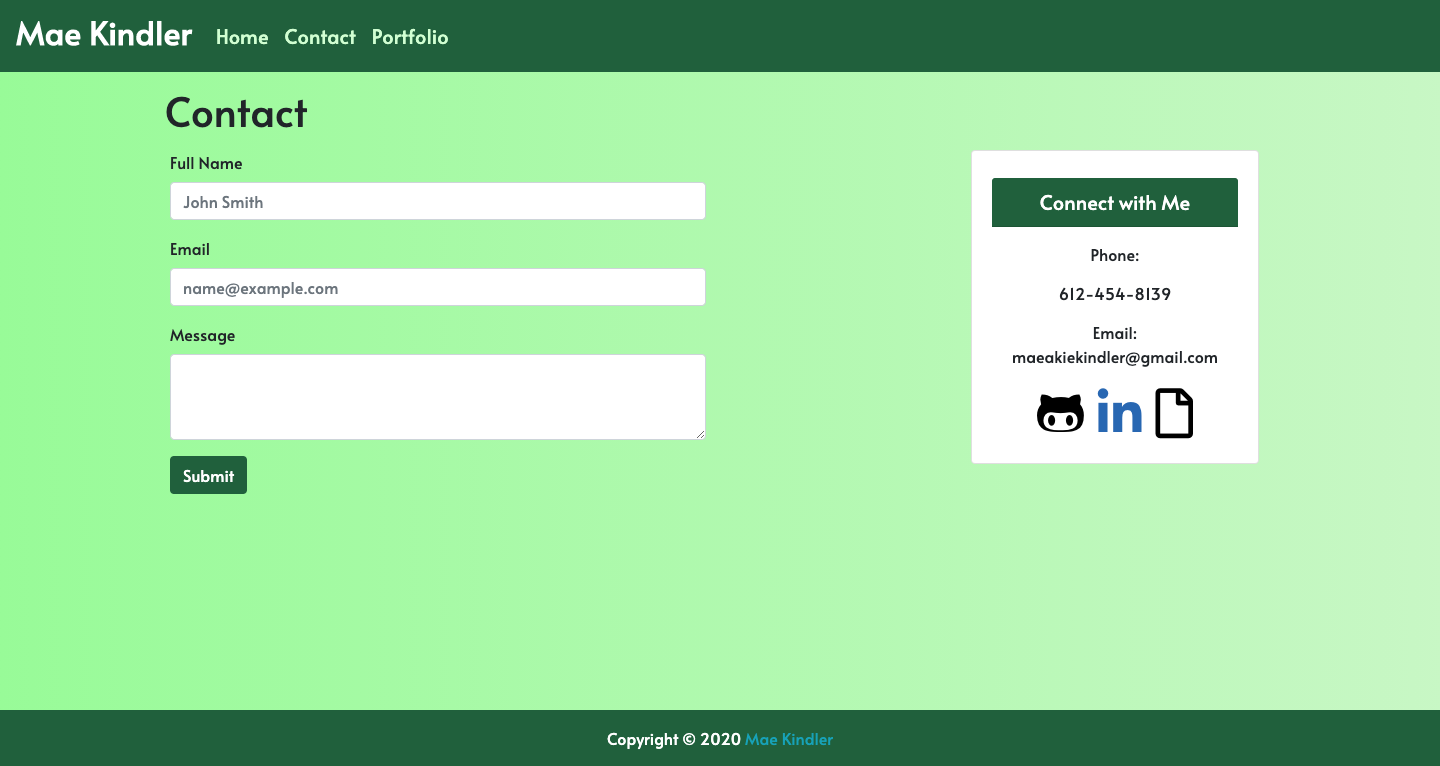
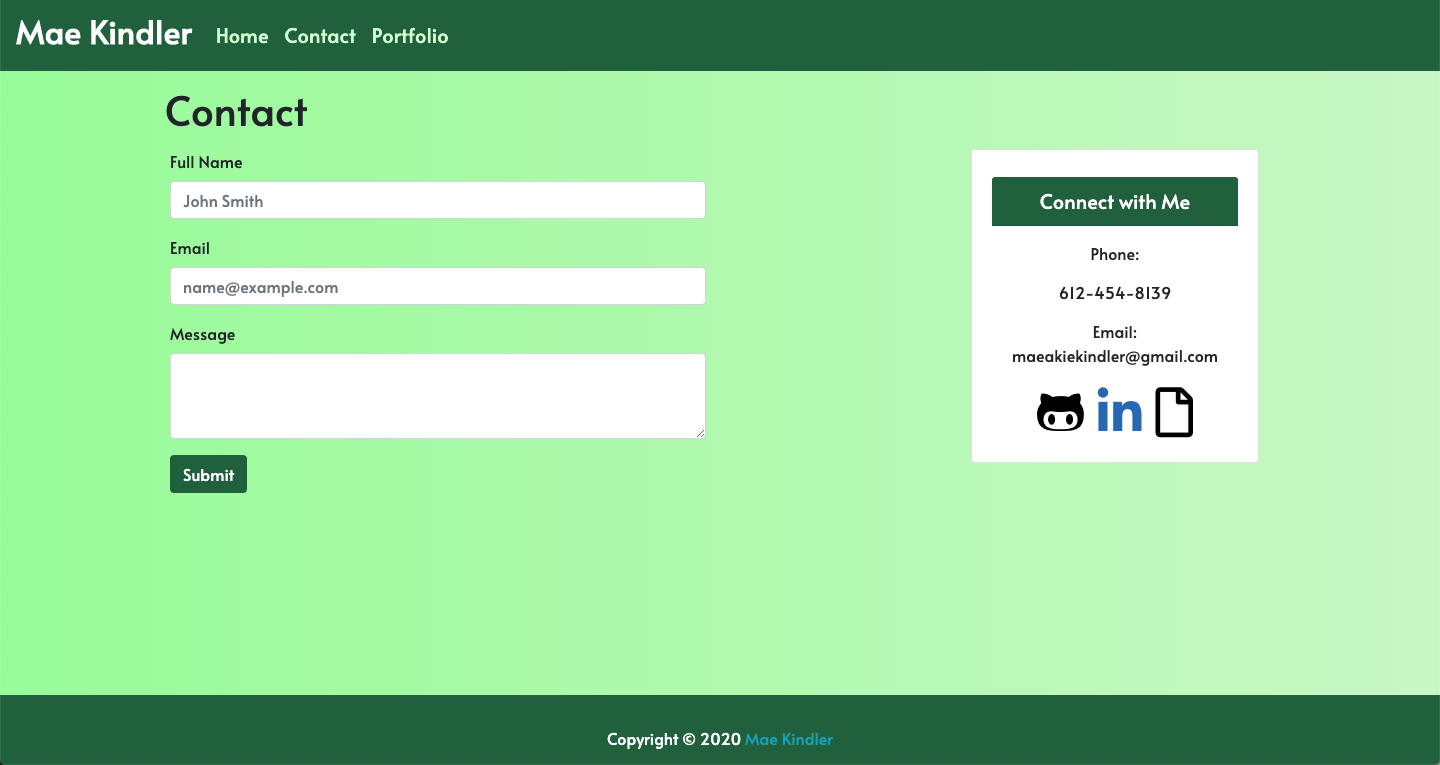
Adjusted footer code across all HTML pages and adjusted styling. Footer should no longer cover content when resized on mobile devices. Added new screenshots of deployed website.

diff --git a/contact.html b/contact.html
@@ -109,11 +109,9 @@
     &#169; Copyright 2020 Mae Kindler
   </footer> -->
 
-  <footer class="footer text-center py-3 sticky-footer">
-    <div class="container" id="footer-container">
-      <span>Copyright &#169; 2020 <a class="text-info" target="_blank" href="https://github.com/mkindler">Mae Kindler</a></span>
-    </div>
-  </footer>
+  <div class="footer">
+    <p class="footer-text">Copyright &#169; 2020 <a class="text-info" target="_blank" href="https://github.com/mkindler">Mae Kindler</a></p>
+  </div>
   
 </body>
 </html>

diff --git a/index.html b/index.html
@@ -105,11 +105,9 @@
       &#169; Copyright 2020 Mae Kindler
   </footer> -->
 
-  <footer class="footer text-center py-3 sticky-footer">
-    <div class="container" id="footer-container">
-      <span>Copyright &#169; 2020 <a class="text-info" target="_blank" href="https://github.com/mkindler">Mae Kindler</a></span>
-    </div>
-  </footer>
+  <div class="footer">
+    <p class="footer-text">Copyright &#169; 2020 <a class="text-info" target="_blank" href="https://github.com/mkindler">Mae Kindler</a></p>
+  </div>
 
 </body>
 </html>

diff --git a/Assets/style.css b/Assets/style.css
@@ -7,8 +7,10 @@ body {
   /* background-repeat: no-repeat; */
   /* background-size: cover; */
   font-family: 'Alata', sans-serif;
-  min-height: 100vh;
-  margin-top: auto;
+  min-height: 400px;
+  margin-bottom: 100px;
+  clear: both;
+  /* margin-top: auto; */
 }
 
 #page-content {
